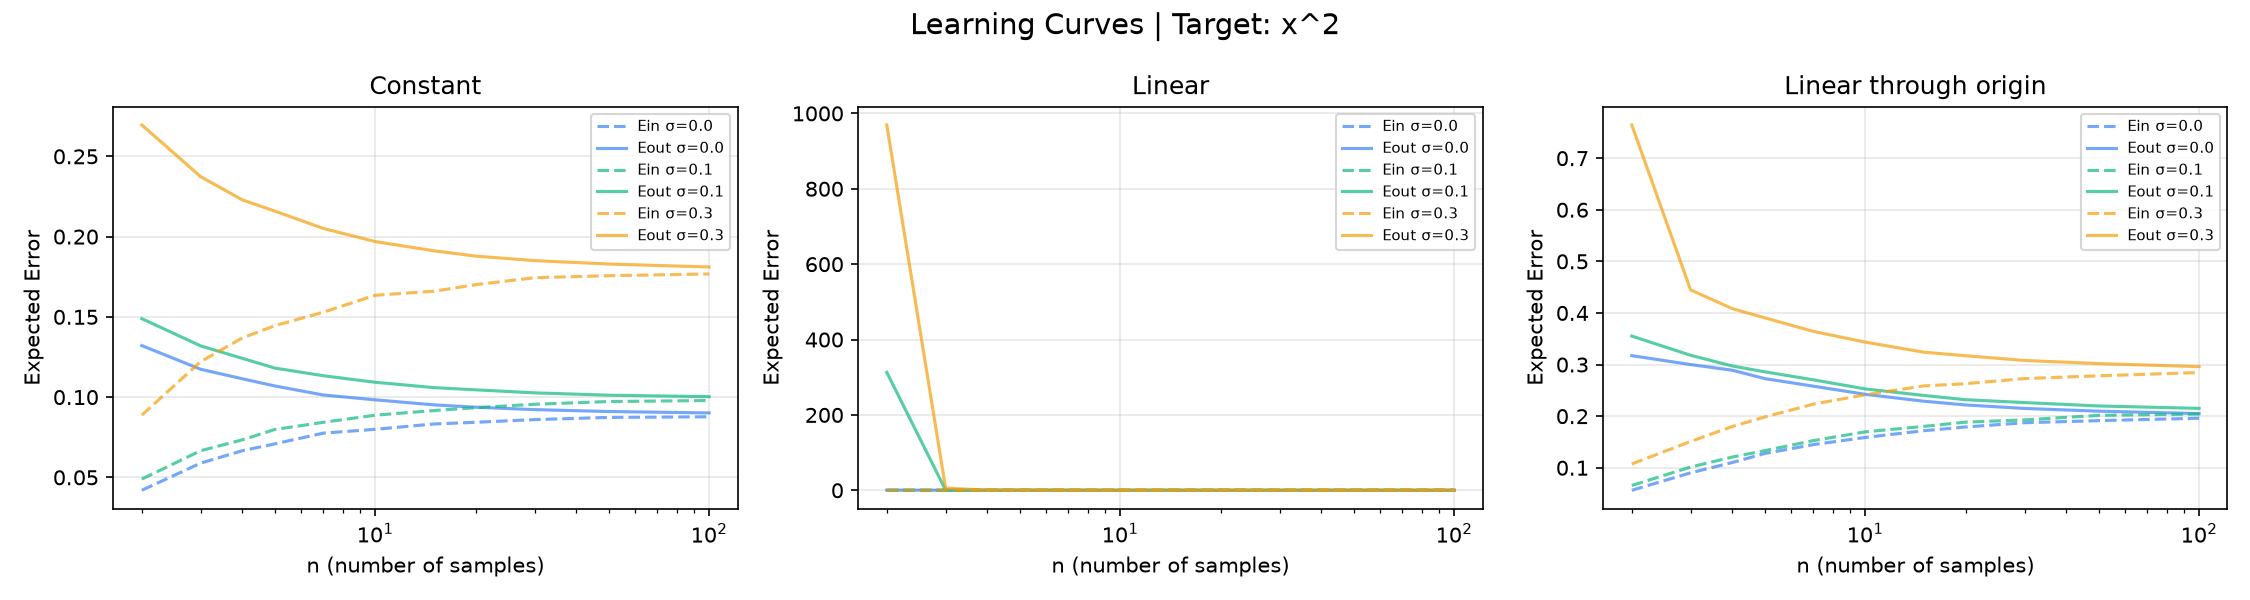
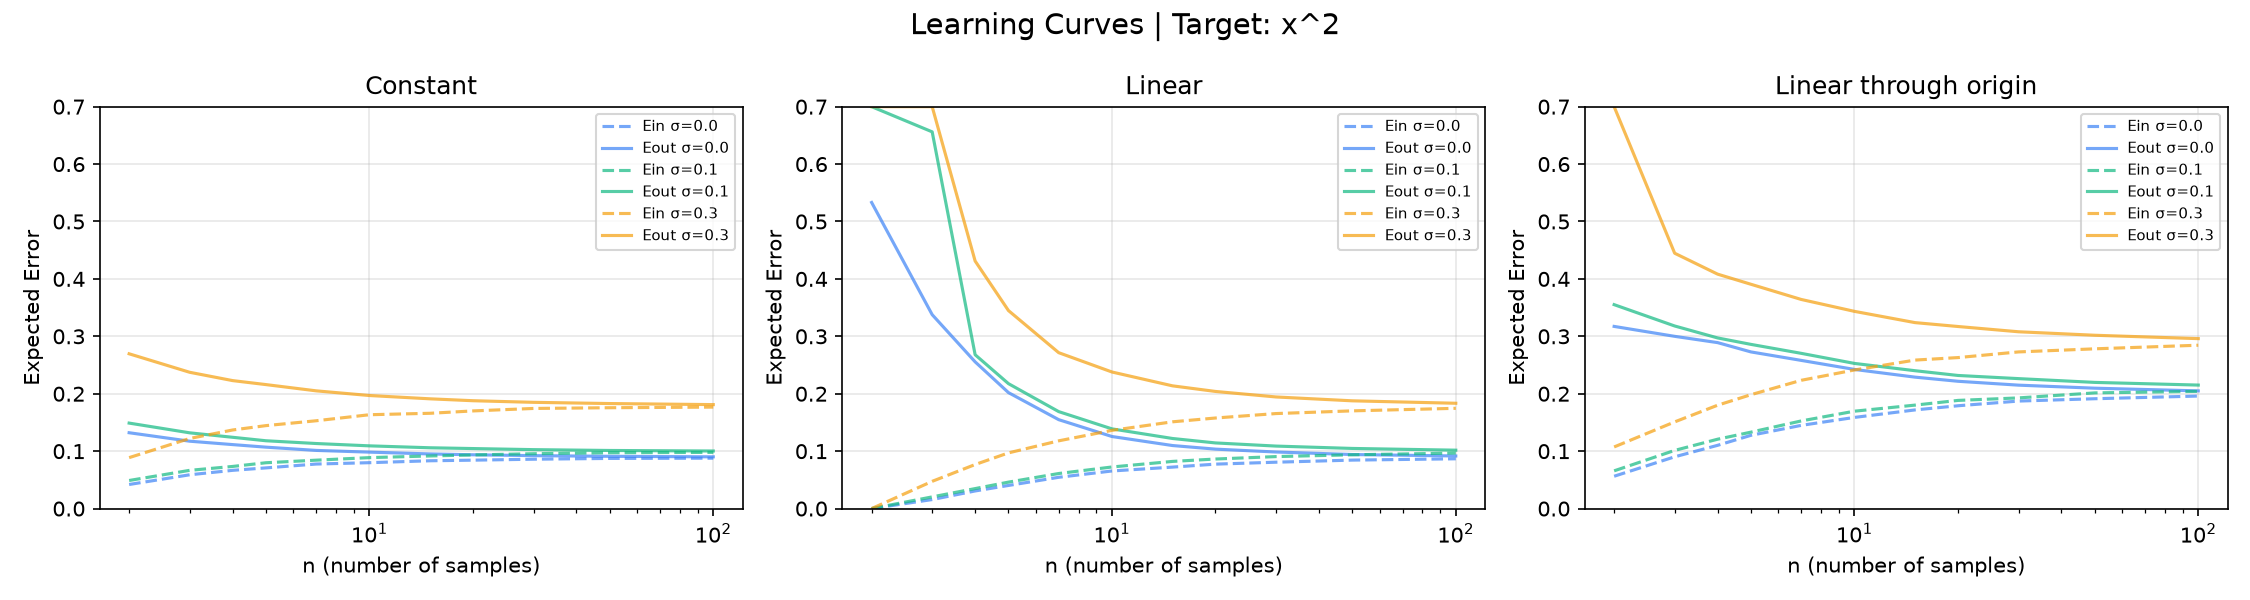
feat: update learning curve plots and refine bias-variance analysis script

diff --git a/Assignment/Week3/bias_variance_lab.py b/Assignment/Week3/bias_variance_lab.py
@@ -210,10 +210,10 @@ def analytical_model(f, model, n_x=400, n_mc=200000, seed_offset=0):
 def simulate_bias_variance(f, model, n_samples=2, n_datasets=50000, n_test=300, sigma=0.0):
     """
     Monte Carlo estimate ของ bias² และ variance
-    n_samples  = 2:      ขนาดชุด train ตามโจทย์ (ยกเว้น learning curve)
+    n_samples  = 2:      ขนาดชุด train (ยกเว้น learning curve)
     n_datasets = 50,000: จำนวนชุดข้อมูล D สำหรับประมาณ E_D
     n_test     = 300:    จำนวนจุดทดสอบบนช่วง [-1,1]
-    sigma      = 0.0:    ระดับ noise (0 = ไม่มี noise ในโจทย์หลัก)
+    sigma      = 0.0:    ระดับ noise (0 = ไม่มี noise)
     """
     x_test = np.linspace(-1, 1, n_test)
     preds = np.zeros((n_datasets, n_test))
@@ -370,7 +370,10 @@ learning_results = {}
 
 for target_name, f in TARGETS.items():
     learning_results[target_name] = {}
-    fig, axes = plt.subplots(1, 3, figsize=(15, 4), sharey=False)
+    # sharey=True เพื่อให้ทั้ง 3 model ใช้สเกลแกน y เดียวกัน
+    # สำหรับ x^2 ใช้สูงสุด 0.7 ส่วน sin(pi*x) ใช้ 1.0
+    y_max = 0.7 if target_name == 'x^2' else 1.0
+    fig, axes = plt.subplots(1, 3, figsize=(15, 4), sharey=True)
     for idx, model in enumerate(MODELS):
         ax = axes[idx]
         learning_results[target_name][model.name] = {}
@@ -381,13 +384,18 @@ for target_name, f in TARGETS.items():
                 'Ein': [float(e) for e in Ein],
                 'Eout': [float(e) for e in Eout],
             }
+            # ตัดค่าที่เกิน y_max ออกจากการพล็อต เพื่อไม่ให้กราฟบานออกไปถึง 1000
+            Ein_plot = np.clip(Ein, 0, y_max)
+            Eout_plot = np.clip(Eout, 0, y_max)
             label = f"σ={sigma}"
-            ax.plot(n_list, Ein, '--', color=noise_colors[sigma], label=f"Ein {label}", alpha=0.7)
-            ax.plot(n_list, Eout, '-', color=noise_colors[sigma], label=f"Eout {label}", alpha=0.7)
+            ax.plot(n_list, Ein_plot, '--', color=noise_colors[sigma], label=f"Ein {label}", alpha=0.7)
+            ax.plot(n_list, Eout_plot, '-', color=noise_colors[sigma], label=f"Eout {label}", alpha=0.7)
         ax.set_xlabel('n (number of samples)')
         ax.set_ylabel('Expected Error')
         ax.set_title(f"{model.name}")
         ax.set_xscale('log')
+        ax.set_ylim(0, y_max)  # ล็อคแกน y ทั้ง 3 model ให้อยู่ที่ 0 ถึง y_max
+        ax.tick_params(labelleft=True)  # แสดงตัวเลขแกน y ในทุก subplot
         ax.legend(fontsize=7)
         ax.grid(True, alpha=0.3)
     plt.suptitle(f"Learning Curves | Target: {target_name}", fontsize=14)